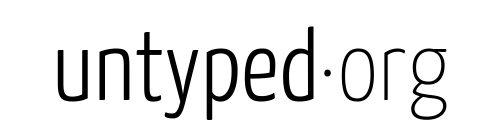
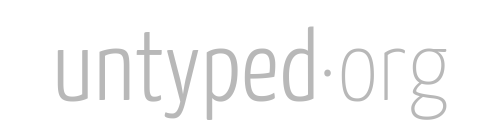
Color, texture, gradient tweaking

Changed region(s): [[0.09, 0.1714, 0.9, 0.8571]]

diff --git a/index.html b/index.html
@@ -1,29 +1,38 @@
 <!DOCTYPE html PUBLIC "-//W3C//DTD XHTML 1.0 Transitional//EN"
-          "http://www.w3.org/TR/xhtml1/DTD/xhtml1-transitional.dtd">
+"http://www.w3.org/TR/xhtml1/DTD/xhtml1-transitional.dtd">
 <html xmlns="http://www.w3.org/1999/xhtml">
-	<head>
-		<title>Welcome</title>
-		<meta http-equiv="content-type" content="text/html; charset=utf-8" />
-		<meta http-equiv="refresh" content="3;url=http://people.untyped.org/damien.pollet">
+<head>
+    <title>Welcome</title>
+    <meta http-equiv="content-type" content="text/html; charset=utf-8" />
+    <meta http-equiv="refresh" content="3;url=http://people.untyped.org/damien.pollet">
     <style type="text/css">
-      body {
-        text-align: center;
-        font: 1em/1.2em "Gill Sans", "Helvetica Neue", Arial, Verdana, sans-serif;
-        color: #eee;
-        /* text-shadow: 0 1px 3px black; */
-        background: #999 url(body-gradient.png) repeat-x;
-      }
-      a, a:link, a:visited { color: #eee; text-decoration: none; }
-      a:hover, a:active { text-decoration: underline; }
-      #logo {
-        font-size: larger;
-        margin: 120px auto auto auto;
-      }
+        html {
+            background: #444 url(linen.png);
+            /* margin: 0; padding: 0; */
+        }
+        body {
+            position: fixed;
+            top: 0; bottom: 0; left: 0; right: 0;
+            margin: 0;
+            text-align: center;
+            font: 1em/1.2em "Helvetica Neue", Arial, Verdana, sans-serif;
+            color: #999;
+            text-shadow: 0 1px 2px black;
+            background-image: -webkit-radial-gradient(
+                center 200px, circle closest-corner,
+                transparent 20%, rgba(0,0,0,0.5) 100%);
+        }
+        a, a:link, a:visited { color: #aaa; text-decoration: none; }
+        a:hover, a:active { text-decoration: underline; }
+        #logo {
+            font-size: larger;
+            margin: 200px auto auto auto;
+        }
     </style>
-	</head>
-	<body>
-	  <div id="logo">
-	    <img src="untyped-big.png" alt="logo" />
+</head>
+<body>
+    <div id="logo">
+        <img src="untyped-big.png" alt="logo" />
         <p><!--<a href="http://typo.cdlm.fasmz.org">Weblog</a>-->
             <a href="http://people.untyped.org/damien.pollet">Homepage</a>
             &nbsp;&mdash;&nbsp;
@@ -31,6 +40,6 @@
             &nbsp;&mdash;&nbsp;
             <a href="http://www.linkedin.com/in/damienpollet">LinkedIn</a>
         </p>
-	  </div>
-	</body>
+    </div>
+</body>
 </html>
